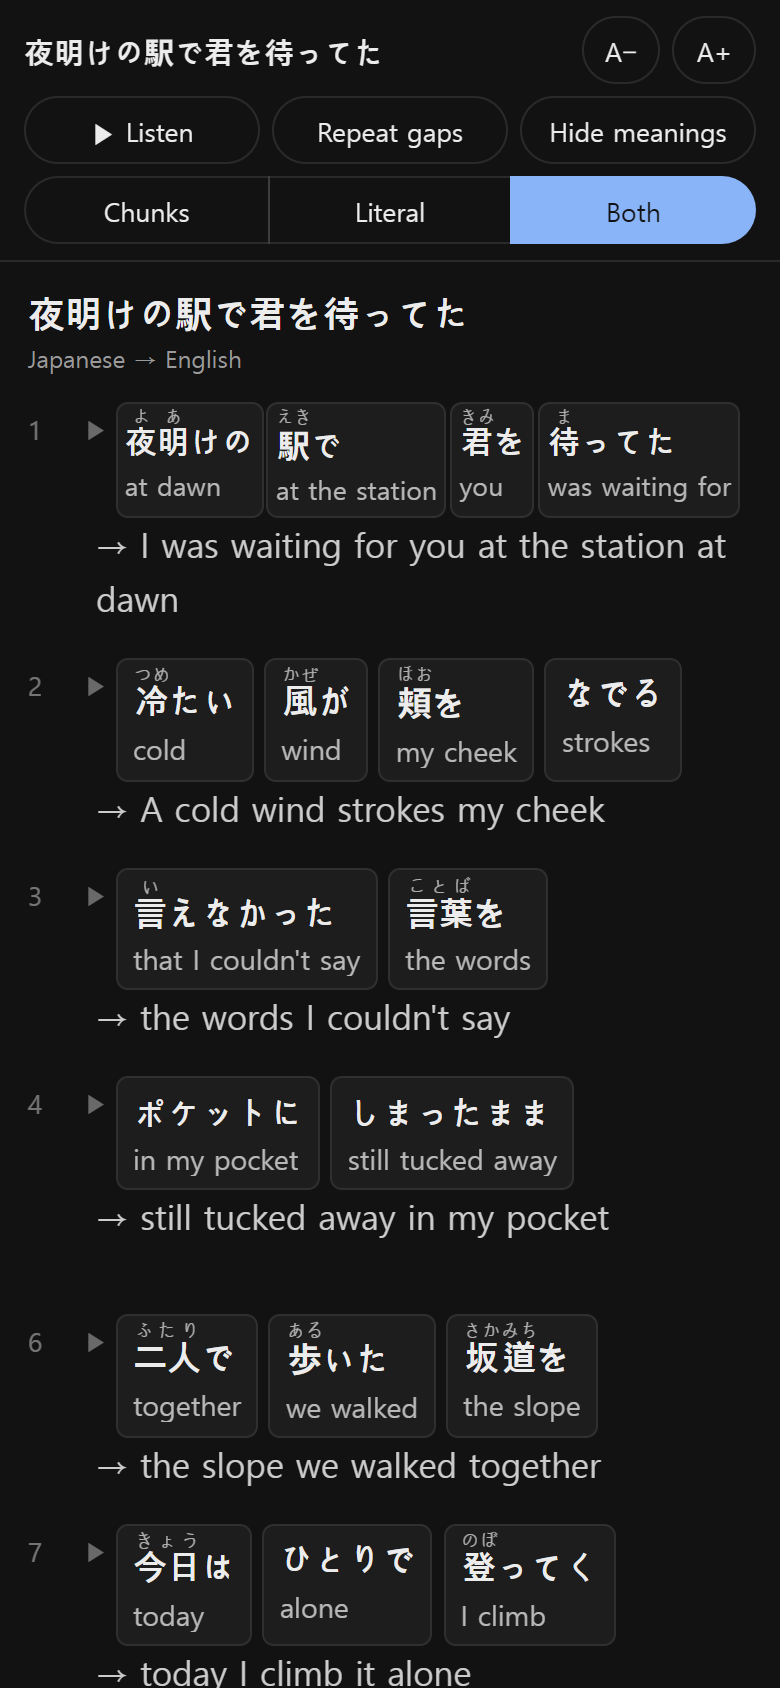
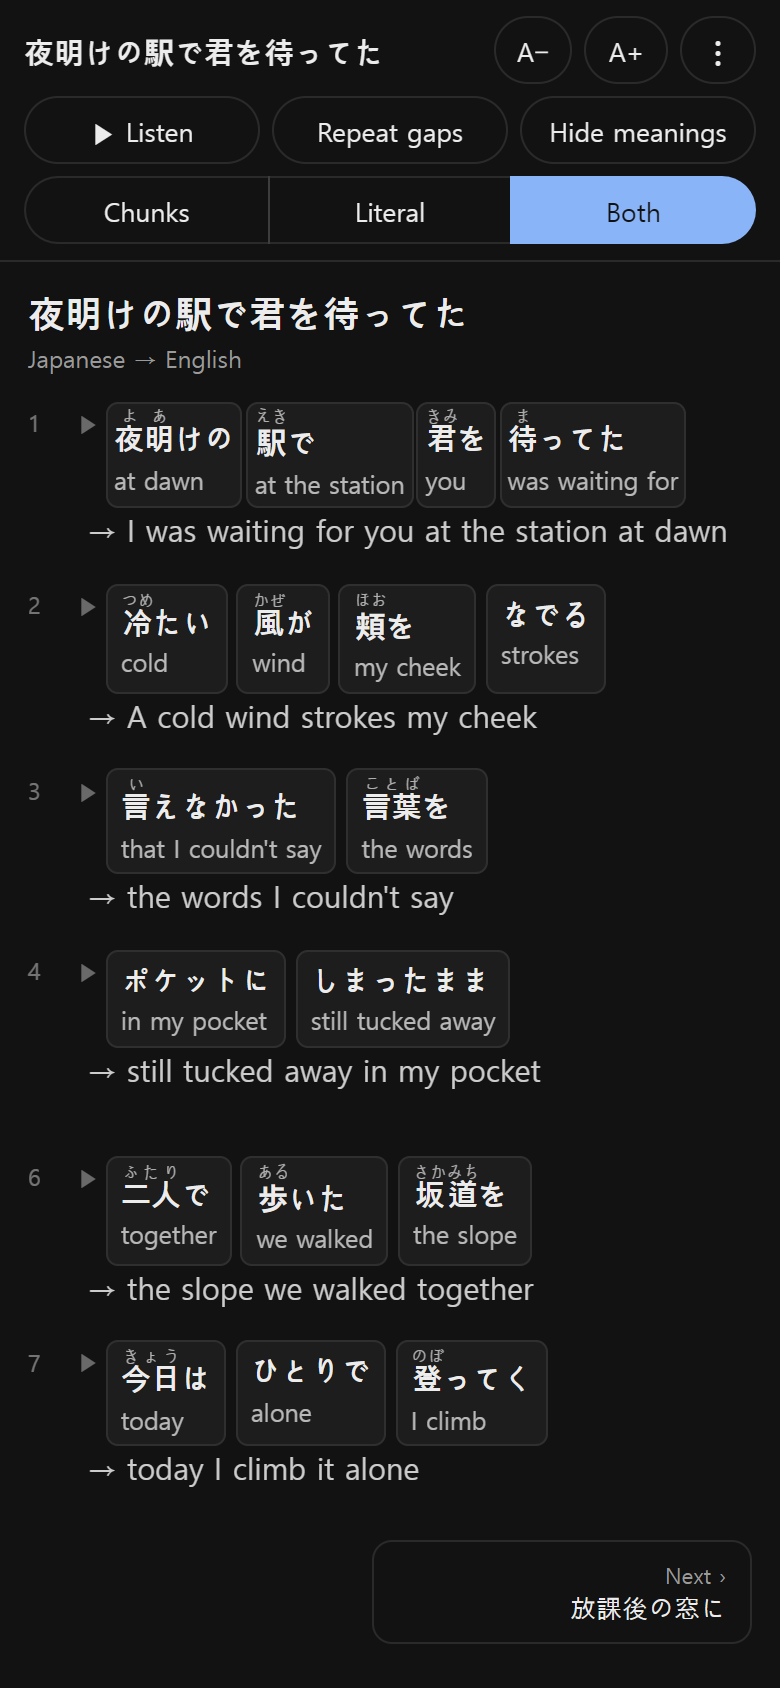
feat(export): 모바일 HTML을 한 곡씩 보고 ⋮ 곡 목록으로 고르게
- 여러 곡을 한 페이지에 이어 붙여 스크롤이 지나치게 길었다. 한 번에 한 곡만 보이게 하고,
  위쪽 막대의 ⋮로 언제든 옆에서 곡 목록 서랍을 연다. 곡 끝에 이전·다음 곡 버튼
- 막대 제목은 지금 보는 곡, 다시 열면 마지막에 본 곡부터. 곡을 바꾸면 전체 듣기를 멈춘다
- 처음 열 때 주소의 #로 내려가 제목이 막대 밑에 가려지던 문제
- 기본 글자 크기 18px → 15px
- 접히는 목차는 서랍으로 대체, README와 모바일 화면 스크린샷 갱신

diff --git a/lyrics_tool/render.py b/lyrics_tool/render.py
@@ -399,23 +399,40 @@ body { margin: 0; background: var(--bg); color: var(--fg);
 .m-seg .m-btn:first-child { border-radius: 999px 0 0 999px; margin-left: 0; }
 .m-seg .m-btn:last-child { border-radius: 0 999px 999px 0; }
 main { max-width: 720px; margin: 0 auto; padding: 12px 14px calc(48px + env(safe-area-inset-bottom)); }
-.m-tocbox { margin: 4px 0 20px; border: 1px solid var(--line); border-radius: 12px; scroll-margin-top: 96px; }
-.m-tocbox > summary { padding: 10px 14px; font-weight: 700; font-size: 15px; cursor: pointer; }
-.m-tocbox > summary small { color: var(--muted); font-weight: 400; }
-.m-tocbox[open] > summary { border-bottom: 1px solid var(--line); }
-.m-toc { margin: 0; padding: 0; list-style: none; }
+.m-menu { width: 38px; padding: 0; font-size: 20px; line-height: 1; }
+/* 곡 목록 서랍: ⋮로 언제든 연다. 곡을 고르면 닫히고 그 곡만 보인다 */
+.m-drawer { position: fixed; inset: 0; z-index: 30; visibility: hidden; transition: visibility 0s .2s; }
+.m-drawer.m-open { visibility: visible; transition: none; }
+.m-shade { position: absolute; inset: 0; background: rgba(0,0,0,.45); opacity: 0; transition: opacity .2s; }
+.m-open .m-shade { opacity: 1; }
+.m-panel { position: absolute; top: 0; right: 0; bottom: 0; width: min(84vw, 340px); display: flex;
+           flex-direction: column; background: var(--bg); border-left: 1px solid var(--line);
+           padding-top: env(safe-area-inset-top); transform: translateX(100%); transition: transform .2s; }
+.m-open .m-panel { transform: none; }
+.m-head { display: flex; align-items: center; gap: 8px; padding: 8px 8px 8px 16px;
+          border-bottom: 1px solid var(--line); }
+.m-head b { flex: 1 1 auto; min-width: 0; font-size: 14px; overflow: hidden; text-overflow: ellipsis;
+            white-space: nowrap; }
+.m-toc { flex: 1 1 auto; margin: 0; padding: 0 0 env(safe-area-inset-bottom); list-style: none; overflow-y: auto;
+         overscroll-behavior: contain; }
 .m-toc li + li { border-top: 1px solid var(--line); }
-.m-toc a { display: flex; gap: 8px; padding: 9px 14px; font-size: 15px; color: inherit; text-decoration: none; }
+.m-toc a { display: flex; gap: 8px; padding: 11px 16px; font-size: 14px; color: inherit; text-decoration: none; }
+.m-toc a[aria-current="true"] { color: var(--on); font-weight: 700; }
 .m-toc span { min-width: 0; overflow: hidden; text-overflow: ellipsis; white-space: nowrap; }
-a.m-book { color: inherit; text-decoration: none; }
 .m-toc small { margin-left: auto; color: var(--muted); white-space: nowrap; }
-.m-song { scroll-margin-top: 96px; }
-.m-song + .m-song { margin-top: 36px; padding-top: 20px; border-top: 1px solid var(--line); }
+body.m-lock { overflow: hidden; }
+.m-many .m-song { display: none; }
+.m-many .m-song.m-cur { display: block; }
 .m-song h2 { font-size: 1.15em; margin: 0 0 2px; }
 .m-meta { color: var(--muted); font-size: 12px; margin-bottom: 14px; }
-.m-top { display: inline-block; margin-top: 8px; color: var(--muted); font-size: 13px; text-decoration: none;
-         padding: 8px 0; }
-.jk-wrap { font-size: var(--m-fs, 18px); line-height: 1.55; }
+.m-nav { display: flex; gap: 8px; margin-top: 24px; }
+.m-nav a { flex: 1 1 0; min-width: 0; padding: 9px 12px; border: 1px solid var(--line); border-radius: 10px;
+           color: inherit; text-decoration: none; font-size: 13px; overflow: hidden; text-overflow: ellipsis;
+           white-space: nowrap; }
+.m-nav small { display: block; color: var(--muted); font-size: 11px; }
+.m-nav .m-next { text-align: right; }
+.m-nav .m-gap { flex: 1 1 0; }
+.jk-wrap { font-size: var(--m-fs, 15px); line-height: 1.5; }
 .jk-line { margin: 0 0 1em; }
 .jk-tr, .jk-err { margin-left: 2em; }
 .jk-no { min-width: 1.9em; }
@@ -433,7 +450,7 @@ MOBILE_JS = """
   let prefs = {};
   try { prefs = JSON.parse(localStorage.getItem(KEY) || '{}') || {}; } catch {}
   const save = () => { try { localStorage.setItem(KEY, JSON.stringify(prefs)); } catch {} };
-  const fs0 = parseInt(root.dataset.fs, 10) || 18;
+  const fs0 = parseInt(root.dataset.fs, 10) || 15;
   let apply = () => {
     root.dataset.mode = prefs.mode || root.dataset.mode;
     root.classList.toggle('m-hide', !!prefs.hide);
@@ -451,27 +468,6 @@ MOBILE_JS = """
       if (act === 'bigger') prefs.fs = Math.min(32, (prefs.fs || fs0) + 1);
       if (act === 'smaller') prefs.fs = Math.max(12, (prefs.fs || fs0) - 1);
       save(); apply(); return;
-    }
-    const box = document.getElementById('m-toc');
-    const goTo = (el) => {  // 위쪽 막대 높이만큼 비워 두고 옮긴다(글자 크기에 따라 막대 높이가 바뀐다)
-      const bar = document.querySelector('.m-bar')?.offsetHeight || 0;
-      scrollTo({ top: el.getBoundingClientRect().top + scrollY - bar - 8 });
-    };
-    const pick = box && e.target.closest('.m-toc a');
-    if (pick) {  // 곡을 고르면 목차를 접고 그 곡으로 간다(접은 뒤에 옮겨야 위치가 맞는다)
-      e.preventDefault();
-      box.open = false;
-      const id = pick.getAttribute('href').slice(1);
-      const song = document.getElementById(id);
-      if (song) goTo(song);
-      history.replaceState(null, '', '#' + id);
-      return;
-    }
-    if (box && e.target.closest('a[href="#m-toc"]')) {  // '↑ 목차'·위쪽 제목: 다시 펼친다
-      e.preventDefault();
-      box.open = true;
-      goTo(box);
-      return;
     }
     const gloss = root.classList.contains('m-hide') && e.target.closest('.jk-t, .jk-tr');
     if (gloss) gloss.classList.toggle('m-shown');  // 가린 뜻은 눌러서 하나씩 확인
@@ -507,19 +503,57 @@ MOBILE_JS = """
       prefs.echo = !prefs.echo; save(); b.setAttribute('aria-pressed', String(prefs.echo)); return;
     }
     if (reading) { tts.stop(); return setReading(false); }
-    const songs = [...document.querySelectorAll('.m-song')];
-    const song = songs.find(s => s.getBoundingClientRect().bottom > 120) || songs[0];
+    const song = document.querySelector('.m-song.m-cur') || document.querySelector('.m-song');
     const plays = [...song.querySelectorAll(`.m-mode[data-mode="${root.dataset.mode}"] .jk-play`)];
     setReading(true);
     tts.readAll(plays, !!prefs.echo, () => setReading(false));
   }, true);
+  // 여러 곡: 한 번에 한 곡만 보이고, ⋮ 서랍의 목록이나 곡 끝의 이전·다음으로 바꾼다. 마지막에 본 곡을 기억한다
+  const songs = [...document.querySelectorAll('.m-song')];
+  const drawer = document.getElementById('m-drawer');
+  if (songs.length < 2 || !drawer) return;
+  const links = [...drawer.querySelectorAll('.m-toc a')];
+  const bookEl = document.querySelector('.m-book');
+  const book = document.title;
+  const openDrawer = (on) => {
+    drawer.classList.toggle('m-open', on);
+    document.body.classList.toggle('m-lock', on);
+    drawer.setAttribute('aria-hidden', String(!on));
+    if (on) links.find(a => a.getAttribute('aria-current') === 'true')?.scrollIntoView({ block: 'center' });
+  };
+  const show = (i, top = true) => {
+    i = Math.max(0, Math.min(songs.length - 1, i | 0));
+    if (reading) { tts.stop(); setReading(false); }
+    songs.forEach((s, k) => s.classList.toggle('m-cur', k === i));
+    links.forEach((a, k) => a.setAttribute('aria-current', String(k === i)));
+    bookEl.textContent = songs[i].querySelector('h2').textContent;
+    prefs.last = Object.assign(prefs.last || {}, { [book]: i }); save();
+    // 처음 열 때 주소에 #을 붙이면 브라우저가 그 곡으로 내려가 제목이 막대 밑에 가려진다. 고를 때만 붙인다
+    if (top) { history.replaceState(null, '', '#' + songs[i].id); scrollTo(0, 0); }
+    refit();
+  };
+  const fromHash = () => songs.findIndex(s => '#' + s.id === location.hash);
+  document.addEventListener('click', (e) => {
+    if (e.target.closest('[data-act="menu"]')) return openDrawer(true);
+    if (e.target.closest('[data-act="close"], .m-shade')) return openDrawer(false);
+    const a = e.target.closest('.m-toc a, .m-nav a');
+    if (!a) return;
+    e.preventDefault();
+    show(songs.findIndex(s => '#' + s.id === a.getAttribute('href')));
+    openDrawer(false);
+  });
+  addEventListener('keydown', (e) => { if (e.key === 'Escape') openDrawer(false); });
+  addEventListener('hashchange', () => { const i = fromHash(); if (i >= 0) show(i); });
+  const h = fromHash();
+  show(h >= 0 ? h : (prefs.last || {})[book] || 0, false);
+  if (h >= 0) addEventListener('load', () => setTimeout(() => scrollTo(0, 0), 50));  // #song-N으로 열어도 곡 맨 위에서
 })();
 """
 
 
 def to_mobile_html(songs: list[tuple[Doc, str]], mode: str, unit: str, opts: ViewOptions | None,
                    title: str) -> str:
-    """폰에서 읽기 좋은 단독 HTML. 곡이 여럿이면 목차가 붙는 한 파일로 묶는다.
+    """폰에서 읽기 좋은 단독 HTML. 곡이 여럿이면 한 파일로 묶고 한 번에 한 곡씩 보인다(⋮ 서랍에서 고름).
 
     songs: (문서, 곡 설명 한 줄). 보기 방식 세 가지를 모두 넣어 두고 위쪽 막대에서 바꾼다(처음은 mode).
     번역 가리기(누르면 하나씩 보임)·글자 크기도 막대에서 바꾸며, 고른 값은 그 브라우저에 기억한다.
@@ -529,40 +563,54 @@ def to_mobile_html(songs: list[tuple[Doc, str]], mode: str, unit: str, opts: Vie
     ui = opts.ui
     view = ViewOptions(opts.font_size, opts.show_numbers, False, opts.reading, opts.dictionary, ui)
     many = len(songs) > 1
-    toc = ""
+    names = [escape(doc.title or _t(ui, "untitled")) for doc, _ in songs]
+    drawer = ""
     if many:
         items = "".join(
-            f'<li><a href="#song-{i}"><span>{i}. {escape(doc.title or _t(ui, "untitled"))}</span>'
+            f'<li><a href="#song-{i}"><span>{i}. {names[i - 1]}</span>'
             f'<small>{sum(1 for s in doc.sources if s.strip())}{escape(_t(ui, "m_lines_suffix"))}</small></a></li>'
             for i, (doc, _) in enumerate(songs, 1))
-        # 처음엔 펼쳐 두고, 곡을 고르면 접는다. 곡 끝의 '↑ 목차'나 위쪽 제목을 누르면 다시 펼친다(MOBILE_JS)
-        count = _t(ui, "m_toc_count", n=len(songs))
-        toc = (f'<details class="m-tocbox" id="m-toc" open><summary>{_t(ui, "m_toc")} <small>· {count}</small>'
-               f'</summary><ol class="m-toc">{items}</ol></details>')
+        drawer = (f'<div class="m-drawer" id="m-drawer" aria-hidden="true"><div class="m-shade"></div>'
+                  f'<nav class="m-panel" aria-label="{_t(ui, "m_toc")}"><div class="m-head"><b>{escape(title)}'
+                  f'</b><button class="m-btn m-menu" type="button" data-act="close" '
+                  f'aria-label="{_t(ui, "m_close")}">×</button></div><ol class="m-toc">{items}</ol></nav></div>')
+
+    def nav(i: int) -> str:
+        """곡 끝의 이전·다음 곡 버튼."""
+        if not many:
+            return ""
+        gap = '<span class="m-gap"></span>'
+        prev = f'<a href="#song-{i - 1}"><small>‹ {_t(ui, "m_prev")}</small>{names[i - 2]}</a>' if i > 1 else gap
+        nxt = (f'<a class="m-next" href="#song-{i + 1}"><small>{_t(ui, "m_next")} ›</small>{names[i]}</a>'
+               if i < len(songs) else gap)
+        return f'<div class="m-nav">{prev}{nxt}</div>'
+
     sections = []
     for i, (doc, meta) in enumerate(songs, 1):
         bodies = "".join(f'<div class="m-mode" data-mode="{m}">{_body(doc, m, unit, view)}</div>' for m in MODES)
-        back = f'<a class="m-top" href="#m-toc">↑ {_t(ui, "m_toc")}</a>' if many else ""
-        sections.append(f'<section class="m-song" id="song-{i}"><h2>{escape(doc.title or _t(ui, "untitled"))}</h2>'
-                        f'<div class="m-meta">{escape(meta)}</div>{bodies}{back}</section>')
+        cur = " m-cur" if i == 1 else ""
+        sections.append(f'<section class="m-song{cur}" id="song-{i}"><h2>{names[i - 1]}</h2>'
+                        f'<div class="m-meta">{escape(meta)}</div>{bodies}{nav(i)}</section>')
     modes = "".join(f'<button class="m-btn" type="button" data-set-mode="{m}">{_t(ui, f"m_mode_{m}")}</button>'
                     for m in MODES)
-    book = (f'<a class="m-book" href="#m-toc">{escape(title)}</a>' if many
-            else f'<div class="m-book">{escape(title)}</div>')
-    bar = (f'<header class="m-bar"><div class="m-row">{book}'
+    menu = (f'<button class="m-btn m-menu" type="button" data-act="menu" aria-label="{_t(ui, "m_toc")}">⋮</button>'
+            if many else "")
+    head = names[0] if many else escape(title)  # 여러 곡이면 지금 보는 곡 제목(MOBILE_JS가 바꾼다)
+    bar = (f'<header class="m-bar"><div class="m-row"><div class="m-book">{head}</div>'
            f'<button class="m-btn" type="button" data-act="smaller" aria-label="{_t(ui, "m_smaller")}">A−</button>'
-           f'<button class="m-btn" type="button" data-act="bigger" aria-label="{_t(ui, "m_bigger")}">A+</button>'
+           f'<button class="m-btn" type="button" data-act="bigger" aria-label="{_t(ui, "m_bigger")}">A+</button>{menu}'
            f'</div><div class="m-row m-acts">'
            f'<button class="m-btn" type="button" data-act="readall" aria-pressed="false">{_t(ui, "m_readall")}</button>'
            f'<button class="m-btn" type="button" data-act="echo" aria-pressed="false">{_t(ui, "m_echo")}</button>'
            f'<button class="m-btn" type="button" data-act="hide" aria-pressed="false">{_t(ui, "m_hide")}</button>'
            f'</div><div class="m-row"><div class="m-seg" role="group">{modes}</div></div></header>')
-    fs = max(int(opts.font_size), 17)
+    fs = 15  # 폰 기본 글자 크기(px). A−·A+로 바꾼 값은 그 폰에 기억된다
+    cls = ' class="m-many"' if many else ""
     return (
-        f'<!doctype html><html lang="{ui}" data-mode="{mode}" data-fs="{fs}"><head><meta charset="utf-8">'
+        f'<!doctype html><html lang="{ui}" data-mode="{mode}" data-fs="{fs}"{cls}><head><meta charset="utf-8">'
         '<meta name="viewport" content="width=device-width, initial-scale=1, viewport-fit=cover">'
         f"<title>{escape(title)}</title><style>{CSS}{MOBILE_CSS}{FIT_CSS}</style></head><body>"
-        f"{bar}<main>{toc}{''.join(sections)}</main>"
+        f"{bar}<main>{''.join(sections)}</main>{drawer}"
         f"<script>{MOBILE_JS.replace('%TTS%', TTS_JS)}</script></body></html>"
     )
 

diff --git a/tests/test_export.py b/tests/test_export.py
@@ -30,15 +30,19 @@ def test_mobile_html_holds_all_modes_and_toc():
     docs = [_doc("One"), _doc("Two", "bye")]
     page = to_mobile_html([(d, "meta") for d in docs], MODE_BOTH, UNIT_SENTENCE, ViewOptions(ui="ko"), "Book")
     assert page.startswith("<!doctype html>") and 'name="viewport"' in page and 'data-mode="both"' in page
-    assert page.count('class="m-song"') == 2 and 'href="#song-2"' in page and "목차" in page
-    assert '<details class="m-tocbox" id="m-toc" open>' in page and 'class="m-book" href="#m-toc"' in page
+    # 여러 곡: 한 번에 한 곡(처음은 1번), ⋮ 서랍의 곡 목록, 곡 끝의 이전·다음
+    assert 'class="m-many"' in page and page.count('class="m-song') == 2 and 'class="m-song m-cur" id="song-1"' in page
+    assert 'id="m-drawer"' in page and 'data-act="menu"' in page and 'href="#song-2"' in page
+    assert '<div class="m-nav"><span class="m-gap"></span><a class="m-next" href="#song-2">' in page
+    assert '<a href="#song-1"><small>‹ 이전 곡</small>One</a><span class="m-gap"></span>' in page
+    assert 'data-fs="15"' in page
     for m in ("source", "target", "both"):
         assert page.count(f'class="m-mode" data-mode="{m}"') == 2
     assert "S[I wait &gt; you]" in page  # 문장 단위 직역
     assert "data-tts=" in page and "speechSynthesis" in page and "prefers-color-scheme: dark" in page
     single = to_mobile_html([(docs[0], "m")], MODE_SOURCE, UNIT_SENTENCE, None, "One")
-    markup = single.split("<script>")[0]  # 곡이 하나면 목차도, 목차로 가는 링크도 없다
-    assert 'id="m-toc"' not in markup and 'href="#m-toc"' not in markup
+    markup = single.split("<script>")[0]  # 곡이 하나면 서랍·⋮·이전·다음이 없다
+    assert all(k not in markup for k in ('id="m-drawer"', 'data-act="menu"', 'class="m-nav"', 'class="m-many"'))
 
 
 def test_image_html_is_self_contained():

diff --git a/lyrics_tool/i18n.py b/lyrics_tool/i18n.py
@@ -151,7 +151,9 @@ S: dict[str, tuple[str, str]] = {
     "fmt_json": ("JSON", "JSON"),
     # ---- 모바일 HTML
     "m_toc": ("Contents", "목차"),
-    "m_toc_count": ("{n} songs", "{n}곡"),
+    "m_close": ("Close", "닫기"),
+    "m_prev": ("Previous", "이전 곡"),
+    "m_next": ("Next", "다음 곡"),
     "m_lines_suffix": (" lines", "줄"),
     "m_mode_source": ("Chunks", "끊어읽기"),
     "m_mode_target": ("Literal", "직역"),

diff --git a/README.ko.md b/README.ko.md
@@ -99,11 +99,11 @@ PC에서 `HOST=0.0.0.0 python app.py`로 실행하고(PowerShell은 `$env:HOST =
 
 - **지금 연 곡**: 곡이 화면에 뜨면 모바일 HTML·인쇄용 HTML·Markdown·JSON을 바로 받을 수 있습니다.
 - **🖼 이미지로 저장 (PNG)**: 지금 곡을 긴 이미지 한 장으로 저장합니다. 휴대폰 폭·넓게, 밝게·어둡게를 고릅니다. 브라우저가 자기 글꼴로 직접 그리므로(추가 라이브러리 없음, 오프라인 가능) 발음 표기와 끊어읽기 카드가 화면과 같게 나옵니다. 가린 번역은 이미지에서는 보이게 그립니다.
-- **모바일 HTML**: 폰에서 읽기 위한 단독 파일 하나. 위쪽 막대에서 끊어읽기·직역·둘 다를 바꾸고, 뜻 가리기(누르면 하나씩 보임)로 스스로 시험하고, 글자 크기를 바꿉니다. 고른 값은 그 폰에 기억됩니다. 가사 한 줄은 한 줄로 보입니다: 긴 줄은 간격과 글자를 줄이고, 60%보다 작아져야 하는 줄만 두 줄로 넘깁니다(화면보다 긴 어구는 카드 안에서 줄을 넘겨 옆으로 밀리지 않습니다). 어구나 줄의 ▶를 누르면 읽어 주고, **▶ 전체 듣기**는 곡을 한 줄씩 읽습니다(**따라 말하기**를 켜면 줄마다 따라 할 시간을 둡니다). 여기서는 폰에 있는 음성을 씁니다. 어구를 길게 누르면 사전 링크를 열 수 있습니다. 폰의 다크 모드를 따릅니다.
+- **모바일 HTML**: 폰에서 읽기 위한 단독 파일 하나. 위쪽 막대에서 끊어읽기·직역·둘 다를 바꾸고, 뜻 가리기(누르면 하나씩 보임)로 스스로 시험하고, 글자 크기를 바꿉니다(처음 15px). 고른 값은 그 폰에 기억됩니다. 가사 한 줄은 한 줄로 보입니다: 긴 줄은 간격과 글자를 줄이고, 60%보다 작아져야 하는 줄만 두 줄로 넘깁니다(화면보다 긴 어구는 카드 안에서 줄을 넘겨 옆으로 밀리지 않습니다). 어구나 줄의 ▶를 누르면 읽어 주고, **▶ 전체 듣기**는 곡을 한 줄씩 읽습니다(**따라 말하기**를 켜면 줄마다 따라 할 시간을 둡니다). 여기서는 폰에 있는 음성을 씁니다. 어구를 길게 누르면 사전 링크를 열 수 있습니다. 폰의 다크 모드를 따릅니다.
 - **🎧 MP3 만들기**: 지금 곡을 원어로 읽은 소리 — 곡 전체 MP3 하나와 줄마다 MP3가 든 ZIP(`01_첫 소절.mp3` …). 원어 듣기 설정을 따릅니다.
-- **여러 곡 한꺼번에**: 히스토리에 저장된 곡을 고르고(고른 순서대로, 또는 **모두 고르기**) 형식을 고릅니다. 모바일 HTML은 모든 곡을 목차가 붙은 한 파일로 묶습니다. 목차는 곡을 고르면 접히고, 곡 끝의 **↑ 목차**나 위쪽 제목을 누르면 다시 펼쳐집니다. 나머지 형식은 곡마다 폴더로 나눠 ZIP 하나에 담습니다. 저장된 결과 그대로 내보내며 다시 번역하지 않습니다.
+- **여러 곡 한꺼번에**: 히스토리에 저장된 곡을 고르고(고른 순서대로, 또는 **모두 고르기**) 형식을 고릅니다. 모바일 HTML은 모든 곡을 한 파일로 묶고 한 번에 한 곡씩 보여 줍니다. 위쪽 막대의 **⋮**를 누르면 언제든 곡 목록이 옆에서 열리고, 곡 끝의 **이전 곡·다음 곡**으로 넘어갑니다. 다시 열면 마지막에 보던 곡부터 보입니다. 나머지 형식은 곡마다 폴더로 나눠 ZIP 하나에 담습니다. 저장된 결과 그대로 내보내며 다시 번역하지 않습니다.
 
-<img src="docs/images/export-panel-ko.png" alt="내보내기 패널" width="200"> <img src="docs/images/export-mobile-ko.png" alt="폰에서 연 모바일 HTML" width="250"> <img src="docs/images/export-image-ko.png" alt="저장한 PNG 이미지" width="320">
+<img src="docs/images/export-panel-ko.png" alt="내보내기 패널" width="180"> <img src="docs/images/export-mobile-ko.png" alt="폰에서 연 모바일 HTML" width="220"> <img src="docs/images/export-drawer-ko.png" alt="⋮로 연 곡 목록" width="220"> <img src="docs/images/export-image-ko.png" alt="저장한 PNG 이미지" width="280">
 
 ## 듣기
 

diff --git a/README.md b/README.md
@@ -99,11 +99,11 @@ Under **Settings → Export**. Every file follows the current view settings (vie
 
 - **Open song**: mobile HTML · printable HTML · Markdown · JSON are ready to download as soon as a song is shown.
 - **🖼 Save as image (PNG)**: draws the open song as one long image, at phone width or wide, light or dark. Your browser draws it with its own fonts (no extra libraries, works offline), so pronunciation and chunk cards look like the screen. Hidden translations are shown in the image.
-- **Mobile HTML**: one self-contained file for reading on a phone. A bar at the top switches between chunks / literal / both, hides meanings for self-testing (tap a meaning to peek), and changes the text size; your choices are remembered on that phone. Each lyric line stays on one row: long lines get tighter and smaller, and only lines that would drop below 60% wrap (a chunk longer than the screen wraps inside its card, so the page never scrolls sideways). Tap a chunk or a line's ▶ to hear it, or **▶ Listen** to read the song line by line (**Repeat gaps** leaves time to repeat each line) — this uses the phone's own voices. Long-press a chunk to open the dictionary link. Follows the phone's dark mode.
+- **Mobile HTML**: one self-contained file for reading on a phone. A bar at the top switches between chunks / literal / both, hides meanings for self-testing (tap a meaning to peek), and changes the text size (15 px to start); your choices are remembered on that phone. Each lyric line stays on one row: long lines get tighter and smaller, and only lines that would drop below 60% wrap (a chunk longer than the screen wraps inside its card, so the page never scrolls sideways). Tap a chunk or a line's ▶ to hear it, or **▶ Listen** to read the song line by line (**Repeat gaps** leaves time to repeat each line) — this uses the phone's own voices. Long-press a chunk to open the dictionary link. Follows the phone's dark mode.
 - **🎧 Make MP3**: the open song read in the original language — one MP3 of the whole song and a ZIP with one MP3 per line (`01_first words.mp3` …), using the Listen settings.
-- **Several songs at once**: pick songs from your saved history (in the order you want, or **Select all**) and the formats. Mobile HTML puts every song into one file with a table of contents — it folds up once you pick a song, and **↑ Contents** at the end of each song (or the title in the top bar) opens it again; the other formats go into a ZIP with one folder per song. Songs are exported as saved — nothing is translated again.
+- **Several songs at once**: pick songs from your saved history (in the order you want, or **Select all**) and the formats. Mobile HTML puts every song into one file and shows one song at a time: **⋮** in the top bar slides in the song list whenever you need it, **Previous / Next** at the end of a song moves on, and the file reopens at the song you read last; the other formats go into a ZIP with one folder per song. Songs are exported as saved — nothing is translated again.
 
-<img src="docs/images/export-panel-en.png" alt="Export panel" width="200"> <img src="docs/images/export-mobile-en.png" alt="Mobile HTML on a phone" width="250"> <img src="docs/images/export-image-en.png" alt="Saved PNG image" width="320">
+<img src="docs/images/export-panel-en.png" alt="Export panel" width="180"> <img src="docs/images/export-mobile-en.png" alt="Mobile HTML on a phone" width="220"> <img src="docs/images/export-drawer-en.png" alt="Song list opened with ⋮" width="220"> <img src="docs/images/export-image-en.png" alt="Saved PNG image" width="280">
 
 ## Listen
 
